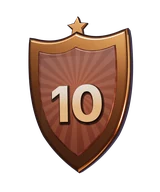
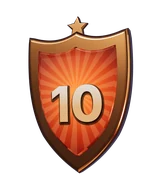
Главная: звезда команды (крупная карточка лучшего игрока); значки дивизионов — яркая эмаль
Claude-Session: https://claude.ai/code/session_01VpcaxWoBDaJdgiPA1Q4kL3

Changed region(s): [[0.2188, 0.2188, 0.75, 0.8125]]

diff --git a/tools/art/divs.html b/tools/art/divs.html
@@ -8,10 +8,10 @@
 const L = (h) => new THREE.Color(h).convertSRGBToLinear();
 // металл, эмаль, свет номера, ореол
 const TIERS = {
-  bronze: { metal: '#c9824a', hi: '#ffd2a8', enamel: '#3a1608', lit: '#ff8a40', ink: ['#fff1e2', '#e7a06a'], halo: '#e9a06a' },
-  silver: { metal: '#c9d3e2', hi: '#ffffff', enamel: '#14223f', lit: '#6f9fff', ink: ['#ffffff', '#a9b9d2'], halo: '#bcd2ff' },
-  gold: { metal: '#f0b52a', hi: '#fff0b0', enamel: '#0f1a3e', lit: '#4f7dff', ink: ['#fff7d0', '#ffc533'], halo: '#ffd23c' },
-  elite: { metal: '#2a3420', hi: '#c6ff3d', enamel: '#0a1006', lit: '#8fe61e', ink: ['#f4ffd0', '#c6ff3d'], halo: '#c6ff3d', trim: '#c6ff3d' },
+  bronze: { metal: '#c9824a', hi: '#ffd2a8', enamel: '#4a1204', lit: '#ff6a1a', ink: ['#fff1e2', '#e7a06a'], halo: '#e9a06a' },
+  silver: { metal: '#c9d3e2', hi: '#ffffff', enamel: '#0b1f5c', lit: '#3d8bff', ink: ['#ffffff', '#a9b9d2'], halo: '#bcd2ff' },
+  gold: { metal: '#f0b52a', hi: '#fff0b0', enamel: '#3a0a2e', lit: '#d4246e', ink: ['#fff7d0', '#ffc533'], halo: '#ffd23c' },
+  elite: { metal: '#2a3420', hi: '#c6ff3d', enamel: '#061206', lit: '#5fd21a', ink: ['#f4ffd0', '#c6ff3d'], halo: '#c6ff3d', trim: '#c6ff3d' },
 };
 const tierOf = (i) => (i >= 9 ? 'elite' : i >= 6 ? 'gold' : i >= 3 ? 'silver' : 'bronze');
 let R = null;
@@ -50,11 +50,14 @@ window.renderDiv = async (i, w, h) => {
   const tn = tierOf(i), T = TIERS[tn], s = rig(w, h, T), G = new THREE.Group(); s.add(G);
   // обод и эмаль
   const rim = ext(shield(1), 0.22, 0.1, metal(T.metal, tn === 'elite' ? { roughness: 0.35 } : {})); G.add(rim);
-  const em = tex(512, 512, (g) => { const q = g.createRadialGradient(256, 230, 10, 256, 256, 330); q.addColorStop(0, T.lit || '#ffffff'); q.addColorStop(1, '#000000'); g.fillStyle = T.enamel; g.fillRect(0, 0, 512, 512);
-    g.globalAlpha = 0.2; g.fillStyle = q; g.fillRect(0, 0, 512, 512); g.globalAlpha = 0.05; g.fillStyle = '#ffffff';
-    for (let k = 0; k < 24; k++) { const a = k * Math.PI / 12; g.beginPath(); g.moveTo(256, 230); g.arc(256, 230, 520, a, a + Math.PI / 24); g.closePath(); g.fill(); } });
+  // эмаль: насыщенный цвет, свет в центре, тёмные края (виньетка), едва заметные лучи
+  const em = tex(512, 512, (g) => { g.fillStyle = T.enamel; g.fillRect(0, 0, 512, 512);
+    const c = g.createRadialGradient(256, 236, 0, 256, 236, 250); c.addColorStop(0, T.lit + 'aa'); c.addColorStop(0.55, T.lit + '33'); c.addColorStop(1, T.lit + '00'); g.fillStyle = c; g.fillRect(0, 0, 512, 512);
+    g.globalAlpha = 0.07; g.fillStyle = '#ffffff';
+    for (let k = 0; k < 24; k++) { const a = k * Math.PI / 12; g.beginPath(); g.moveTo(256, 236); g.arc(256, 236, 520, a, a + Math.PI / 24); g.closePath(); g.fill(); }
+    g.globalAlpha = 1; const v = g.createRadialGradient(256, 256, 140, 256, 256, 340); v.addColorStop(0, 'rgba(0,0,0,0)'); v.addColorStop(1, 'rgba(0,0,0,.7)'); g.fillStyle = v; g.fillRect(0, 0, 512, 512); });
   em.repeat.set(0.31, 0.31); em.offset.set(0.5, 0.5);
-  const inner = ext(shield(0.8), 0.06, 0.04, new THREE.MeshStandardMaterial({ color: 0xffffff, map: em, metalness: 0.25, roughness: 0.4 })); inner.position.set(0, 0.0, 0.17); G.add(inner);
+  const inner = ext(shield(0.8), 0.06, 0.04, new THREE.MeshStandardMaterial({ color: 0xffffff, map: em, emissive: 0xffffff, emissiveMap: em, emissiveIntensity: 0.55, metalness: 0, roughness: 0.18, envMapIntensity: 0.5 })); inner.position.set(0, 0.0, 0.17); G.add(inner);
   if (T.trim) { const tr = ext(shield(0.86), 0.02, 0.02, new THREE.MeshBasicMaterial({ color: L(T.trim) })); tr.position.z = 0.15; G.add(tr); }
   // номер: металлический градиент с тенью, на плоскости над эмалью
   const num = i >= 9 ? '★' : String(10 - i);

diff --git a/js/fcm.js b/js/fcm.js
@@ -100,7 +100,7 @@ const FCM = (() => {
   // ---- дивизионы (5.11, js/division.js) ----
   const carLabel = () => { try { const S0 = ClubPath.S(), c = ClubPath.CH[Math.min(S0.ch, ClubPath.CH.length) - 1]; return `Глава ${c.id} · ${c.t}`; } catch (e) { return 'Сюжет и задания'; } };
   // значок дивизиона (21.11) — 3D-рендер из tools/art/divs.html: щит из металла ступени, номер, звёзды, лавры, корона
-  const dvImg = (i, big) => `img/div/d${Math.max(0, Math.min(9, i))}-${big ? 384 : 192}.webp?v=2`;
+  const dvImg = (i, big) => `img/div/d${Math.max(0, Math.min(9, i))}-${big ? 384 : 192}.webp?v=3`;
   const dvBadge = (i, big) => `<span class="dvb2 ${big ? 'big' : ''}"><i class="dvb2-glow t-${Division.tier(i)}"></i><img src="${dvImg(i, big)}" alt="${esc(Division.name(i))}"></span>`;
   const dvBar = () => { const D = Division, s = D.week(), i = D.idx(), nx = D.START[i + 1]; return { s, i, nx, pct: nx ? Math.max(3, Math.round(100 * (s.pts - D.START[i]) / (nx - D.START[i]))) : 100 }; };
   function divHero() {
@@ -151,8 +151,13 @@ const FCM = (() => {
       : day ? { a: 'data-act="wheel"', img: 'img/packs/pk1-360.webp?v=b3', s: 'Бесплатно', t: 'Пак дня', n: '!', c: 'balls' }
       : { a: 'data-fm-tab="store"', img: 'img/packs/pk3-360.webp?v=b3', s: 'Магазин', t: 'Паки', n: 0, c: 'packs' };
     const GM = ['career', 'ng-wordle', 'hl'].map((k) => `img/games/${k}.webp`);
+    // звезда команды: лучший по рейтингу из состава (пусто — Джексон), крупная карточка покачивается; тап — карточка крупно
+    const RT = (c) => (typeof Lime !== 'undefined' ? Lime.r(c) : c.r);
+    let star = null; try { star = Squad.S().xi.map((k) => k && Cards.get(k)).filter(Boolean).sort((a, b) => RT(b) - RT(a))[0] || null; } catch (e) { star = null; }
+    star = star || jg;
+    const starH = star ? `<button class="hm-star" data-fm-card="${esc(star.key)}" aria-label="Звезда команды"><i class="hm-star-rays"></i><span class="hm-star-c">${Cards.html(star, { w: 132 })}</span><small>Звезда команды</small></button>` : '';
     return `<div class="hm hm2">
-      <div class="hm-c">${hero}</div>
+      <div class="hm-c">${hero}</div>${starH}
       <div class="hm-r">
         <button class="hm-t ${T.c}" ${T.a}><span class="hm-t-art"><img class="pl-ball" src="${T.img}" alt=""></span><span class="hm-t-tx"><small>${T.s}</small><b>${T.t}</b></span>${T.n ? `<em class="hm-n">${T.n}</em>` : ''}</button>
         <button class="hm-t mini" data-fm-go="modes:guess"><span class="hm-t-art col">${GM.map((g) => `<img src="${g}" alt="">`).join('')}</span><span class="hm-t-tx"><small>48 игр</small><b>Мини-игры</b></span></button>

diff --git a/css/home.css b/css/home.css
@@ -90,3 +90,21 @@
   .hm2 .hm-t-tx b { font-size: clamp(15px, 2.3vw, 22px); }
   .hm2 .hm-t-art.col img { width: clamp(28px, 4.4vw, 46px); height: clamp(28px, 4.4vw, 46px); margin-left: -12px; }
 }
+/* 21.11: звезда команды на главной — крупная карточка лучшего игрока, покачивается в 3D, за ней лучи */
+@media (orientation: landscape) and (max-height: 620px), (orientation: landscape) and (min-width: 900px) {
+  .hm.hm2 { grid-template-columns: minmax(0, 1fr) auto minmax(200px, 28%); }
+  .hm-star { position: relative; align-self: center; display: grid; justify-items: center; gap: 8px; padding: 0 !important; border: 0; background: none !important; perspective: 700px; }
+  .hm-star-rays { position: absolute; left: 50%; top: 44%; width: 300px; aspect-ratio: 1; transform: translate(-50%, -50%); pointer-events: none;
+    background: repeating-conic-gradient(from 0deg, rgba(255,214,90,.22) 0 7deg, transparent 7deg 22deg); -webkit-mask: radial-gradient(closest-side, #000 25%, transparent); mask: radial-gradient(closest-side, #000 25%, transparent); animation: fm-spin 26s linear infinite; }
+  .hm-star-c { position: relative; transform-style: preserve-3d; animation: hmStar 5s ease-in-out infinite; filter: drop-shadow(0 14px 18px rgba(0,0,0,.55)) drop-shadow(0 0 18px rgba(255,210,60,.35)); }
+  .hm-star small { position: relative; padding: 4px 10px; border-radius: 9px; background: rgba(10,16,28,.7); box-shadow: inset 0 0 0 1px rgba(255,210,60,.4); font: 800 10px "Inter Tight", sans-serif; letter-spacing: .12em; text-transform: uppercase; color: #ffd23c; }
+  .hm-star:active .hm-star-c { transform: scale(.96); }
+}
+@media (orientation: landscape) and (max-height: 360px) { .hm-star .cc { zoom: .82; } }
+@keyframes hmStar { 0%, 100% { transform: rotateY(-14deg) rotateX(4deg) translateY(0); } 50% { transform: rotateY(14deg) rotateX(-2deg) translateY(-6px); } }
+@media (prefers-reduced-motion: reduce) { .hm-star-c, .hm-star-rays { animation: none !important; } }
+@media (orientation: landscape) and (max-height: 620px), (orientation: landscape) and (min-width: 900px) {
+  .hm2 .hm-ht > b { font-size: clamp(24px, 3.6vw, 44px); white-space: nowrap; }
+  .hm2 .hm-emb .dvb2.big { width: clamp(110px, 16vw, 180px); }
+  .hm2 .hm-play { padding: 0 32px 0 24px !important; }
+}

diff --git a/index.html b/index.html
@@ -822,7 +822,7 @@
 <link rel="stylesheet" href="css/division.css?v=20261121-hd3">
 <link rel="stylesheet" href="css/result.css?v=20261114-rs2">
 <link rel="stylesheet" href="css/plate.css?v=20261114-pl3">
-<link rel="stylesheet" href="css/home.css?v=20261121-hd3">
+<link rel="stylesheet" href="css/home.css?v=20261122-hs3">
 <link rel="stylesheet" href="css/fx.css?v=20261105-bg1">
 <script defer src="js/social.js?v=20261015-shop1"></script>
 <script defer src="js/packs.js?v=20261121-hd3"></script>
@@ -886,7 +886,7 @@
 <script defer src="js/clubpath.js?v=20261121-hd3"></script>
 <script defer src="js/app.js?v=20261105-dv1"></script>
 <script defer src="js/onboard.js?v=20261121-hd3"></script>
-<script defer src="js/fcm.js?v=20261121-q2"></script>
+<script defer src="js/fcm.js?v=20261122-hs3"></script>
 <script defer src="js/fx.js?v=20261114-rs1"></script>
 <script>
 /* Автообновление: Telegram держит старую копию игры. При запуске (и при возврате в игру на главной) сверяем
